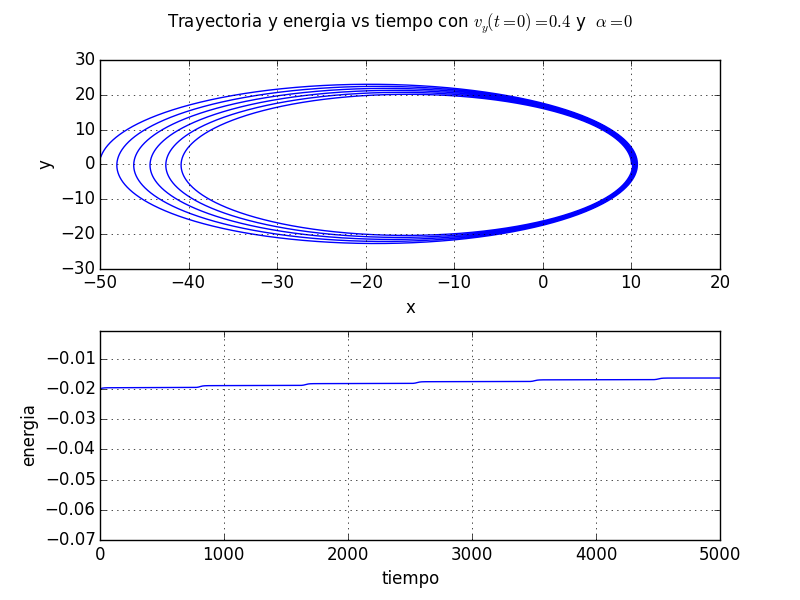
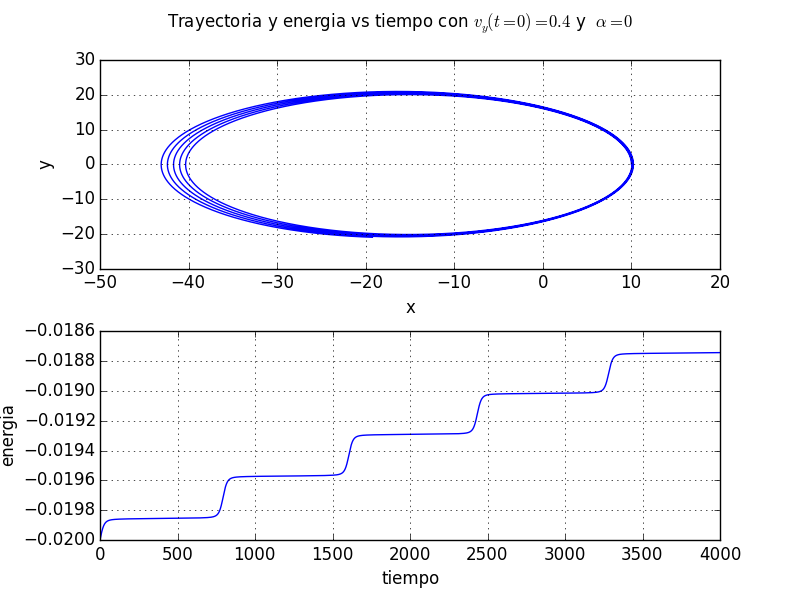
se igualan los tiempos y diferencian dt

diff --git a/solucion_usando_rk4.py b/solucion_usando_rk4.py
@@ -6,9 +6,10 @@ condicion_inicial = [10, 0, 0, 0.4]
 p = Planeta(condicion_inicial)
 
 
-N_steps = 4*np.int(1e3)
-dt=2000./N_steps
-t=np.linspace(0,2000,N_steps)
+N_steps = 4000
+dt=4000./N_steps
+t1=np.linspace(0,4000,N_steps)
+t2=np.linspace(0,4000,N_steps)
 
 #800 y 700
 #creamos los arrays en que se guardara la informacion
@@ -30,20 +31,31 @@ for i in range(1, N_steps):
 fig = plt.figure(1)
 fig.clf()
 
-ax1 = fig.add_subplot(211)
+ax1 = fig.add_subplot(311)
 plt.suptitle('Trayectoria y energia vs tiempo con $v_{y}(t=0)=0.4$ y  ' r'$\alpha=0$')
 fig.subplots_adjust(hspace=.3)
 ax1.plot(x,y)
+ax1.set_xlim(-45,15)
+ax1.set_ylim(-30,30)
 ax1.grid(True)
 ax1.set_xlabel('x')
 ax1.set_ylabel('y')
 
-ax2 = fig.add_subplot(212)
-ax2.plot(t,energia)
+ax2 = fig.add_subplot(312)
+ax2.plot(t1,energia)
 ax2.grid(True)
 ax2.set_xlabel('tiempo')
 ax2.set_ylabel('energia')
-ax2.set_ylim(-0.07,-0.001)
+
+fig.subplots_adjust(hspace=.5)
+
+ax3 = fig.add_subplot(313)
+ax3.plot(t2,energia)
+ax3.grid(True)
+ax3.set_xlabel('tiempo')
+ax3.set_ylabel('energia')
+ax3.set_ylim(-0.03,-0.01)
+
 plt.draw()
 plt.show()
 plt.savefig('rk4.png')

diff --git a/solucion_usando_verlet.py b/solucion_usando_verlet.py
@@ -5,10 +5,10 @@ import matplotlib.pyplot as plt
 condicion_inicial = [10, 0, 0, 0.4]
 p = Planeta(condicion_inicial)
 
-N_steps = 4*np.int(1e4)
+N_steps = 8000
 dt=4000./N_steps
 #escogemos hasta 2000 para comparar todas las energias hasta el mismo tiempo
-t1=np.linspace(0,2000,N_steps)
+t1=np.linspace(0,4000,N_steps)
 t2=np.linspace(0,4000,N_steps)
 #creamos los arrays en que se guardara la informacion
 x= np.zeros(N_steps)
@@ -56,7 +56,7 @@ ax3.plot(t2,energia)
 ax3.grid(True)
 ax3.set_xlabel('tiempo')
 ax3.set_ylabel('energia')
-ax3.set_ylim(-0.07,-0.001)
+ax3.set_ylim(-0.03,-0.01)
 
 plt.draw()
 plt.show()

diff --git a/solucion_usando_euler.py b/solucion_usando_euler.py
@@ -10,11 +10,11 @@ p = Planeta(condicion_inicial)
 
 
 
-N_steps = 5*np.int(1e4)
-dt=5000./N_steps
+N_steps = 100000
+dt=4000./N_steps
 #escogemos hasta 2000 para comparar todas las energias hasta el mismo tiempo
 
-t=np.linspace(0,5000,N_steps)
+t=np.linspace(0,4000,N_steps)
 #creamos los arrays en que se guardara la informacion
 x= np.zeros(N_steps)
 y= np.zeros(N_steps)
@@ -50,7 +50,7 @@ ax2.plot(t,energia)
 ax2.grid(True)
 ax2.set_xlabel('tiempo')
 ax2.set_ylabel('energia')
-ax2.set_ylim(-0.07,-0.001)
+
 
 
 plt.draw()

diff --git a/alpha_distinto_de_cero.py b/alpha_distinto_de_cero.py
@@ -6,7 +6,7 @@ condicion_inicial = [10, 0, 0, 0.4]
 p = Planeta(condicion_inicial, 10**(-2.232))#RUT=18.769.232-6
 #p = Planeta(condicion_inicial)
 
-N_steps = 245*np.int(1e3)
+N_steps = 490*np.int(1e2)
 dt=24500./N_steps
 t=np.linspace(0,24500,N_steps)
 #creamos los arrays en que se guardara la informacion
